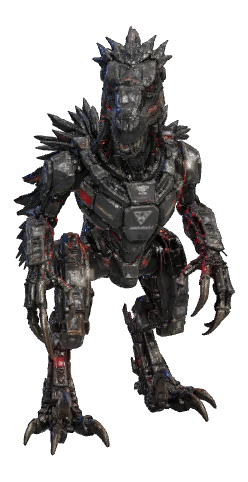
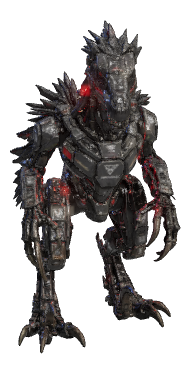
Konga + Tritone join the roster, a 20% shorter Saurion, pointer fixes in mech select
- KONGA and TRITONE lose `hidden: true` — they are playable now (AEGIS and
  NOVA stay hidden). Neither had a poster, which silently means mech select
  builds a live model on every keypress, so both were shot into posters.json.
- SAURION is 20% shorter: `heightScale: 0.8` for the pinned GLB and
  `body.scale` 1.12 -> 0.896 for the procedural body + derived dims. Measured
  0.800x on ankleprobe with the depth/height ratios unchanged; poster re-shot.
- Mech select: a second click on your locked robot UNLOCKS it; the bottom
  cards now behave like the LB/RB slot ring under the mouse (first click
  visits, further clicks cycle, your own card is home); a click on empty
  screen clears the focus; and the SELECT glyph beside "use pointer" is
  centred on the text instead of hanging a radius below it.

Claude-Session: https://claude.ai/code/session_01GbToFE42ANLKjEUbRpdHJB

Changed region(s): [[0.0524, 0.0294, 0.9424, 0.9412]]

diff --git a/src/ui/menus.js b/src/ui/menus.js
@@ -255,10 +255,20 @@ export class MechSelectScreen {
       });
       c.addEventListener('click', () => {
         const pk = this.mousePicker;
-        if (!pk || pk.locked) return;
+        if (!pk) return;
+        // the grid is the pointer's own business: clicking a robot brings a
+        // mouse user home from whatever slot card they were visiting
+        this.clearMouseSel(pk);
+        // A CLICK IS A TOGGLE. Clicking the robot you are standing on locks
+        // it in, and clicking that same robot again lets it go — the mouse's
+        // answer to B, since a locked mouse user otherwise has nothing to
+        // click that undoes the lock.
+        if (pk.locked) { if (pk.cursor === i) this.unlock(pk); return; }
         if (this.touch) {
           if (pk.cursor !== i) { pk.cursor = i; this.audio?.play('uiMove'); this.refresh(); }
-        } else if (pk.cursor === i) this.lockIn(pk);
+          return;
+        }
+        if (pk.cursor === i) this.lockIn(pk);
       });
       this.grid.appendChild(c);
       return c;
@@ -296,6 +306,18 @@ export class MechSelectScreen {
 
     this.el.appendChild(el('div', 'hint-bar', t('select.hint.html')));
     root.appendChild(this.el);
+
+    // CLICKING NOTHING DESELECTS. A pointer-placed slot focus is sticky —
+    // it re-aims ↑↓ at somebody else's card — so there has to be somewhere
+    // to put it down: the 3D stage, the heading, the bare backdrop. Anything
+    // that IS a control handles its own click and is exempt.
+    this.onStrayClick = (e) => {
+      if (this.finished) return;
+      if (e.target?.closest?.('.roster-cell, .player-card, .hot-btn, .touch-navbar, .ready-banner')) return;
+      this.clearMouseSel();
+    };
+    // capture: the canvas swallows pointer events on its own way through
+    window.addEventListener('click', this.onStrayClick, true);
 
     if (this.touch) {
       const bar = el('div', 'touch-navbar');
@@ -371,13 +393,39 @@ export class MechSelectScreen {
     // mouse does that the slot ring doesn't
     const arrow = e.target.closest?.('.pc-diff');
     if (arrow && s.kind === 'ai') { this.cycleAiDiff(i, +arrow.dataset.dir); return; }
-    // your own card = leave (mouse users; pickers otherwise use B)
-    if (i === this.mousePicker?.slotIdx) { this.removeSlot(i); return; }
+    const pk = this.mousePicker;
+    // your own card is HOME on the slot ring: while you are visiting another
+    // slot it brings you back, and only a click with nothing visited leaves
+    // the match (mouse users; pickers otherwise use B)
+    if (pk && i === pk.slotIdx) {
+      if (pk.sel != null) this.clearMouseSel(pk); else this.removeSlot(i);
+      return;
+    }
     // somebody else's pad/touch seat is theirs alone — same slots the
     // controller selector refuses to sit on
     if (s.kind === 'human' && s.device !== 'kb1' && s.device !== 'kb2') return;
-    // every other card walks the same ring a controller walks with ↑↓
+    // A CLICK VISITS A SLOT, exactly as LB/RB do: the first click puts your
+    // focus on the card (framed in your colour, and ↑↓ now drive it), and
+    // clicking the card you are already on walks its options — so the mouse
+    // and the bumpers reach the same state rather than each having their own.
+    if (pk && pk.sel !== i) {
+      pk.sel = i;
+      this.audio?.play('uiMove');
+      this.refresh();
+      return;
+    }
+    // no mouse picker to hold the focus (everyone is on a pad): a click is
+    // still the plain step through the ring it always was
     this.cycleMouse(i, 1);
+  }
+
+  // drop a pointer-placed slot focus — a click on the card you are visiting,
+  // a click on the grid, or a click on the bare screen behind the UI
+  clearMouseSel(pk = this.mousePicker) {
+    if (!pk || pk.sel == null) return;
+    pk.sel = null;
+    this.audio?.play('uiBack');
+    this.refresh();
   }
 
   // the ring a CLICK walks: the controller's stops minus the CPU difficulty
@@ -658,6 +706,17 @@ export class MechSelectScreen {
     if (this.pickers.every((p) => p.locked) && this.activeCount() >= 2) this.armReady();
   }
 
+  // let a locked pick go and carry on choosing (B on a pad, a second click
+  // on your own robot with the mouse)
+  unlock(pk) {
+    if (!pk.locked) return;
+    pk.locked = false;
+    this.picks[pk.slotIdx] = null;
+    this.disarmReady();
+    this.audio?.play('uiBack');
+    this.refresh();
+  }
+
   armReady() {
     if (this.ready) return;
     this.ready = true;
@@ -792,13 +851,7 @@ export class MechSelectScreen {
           this.finish();
           return;
         }
-        if (back) { // unlock and keep picking
-          pk.locked = false;
-          this.picks[pk.slotIdx] = null;
-          this.disarmReady();
-          this.audio?.play('uiBack');
-          this.refresh();
-        }
+        if (back) this.unlock(pk); // unlock and keep picking
       }
     }
 
@@ -807,6 +860,7 @@ export class MechSelectScreen {
   }
   destroy() {
     this.hotButtons.forEach((b) => frameHotButton(b, null));
+    window.removeEventListener('click', this.onStrayClick, true);
     this.el.remove();
   }
 }

diff --git a/src/mechs/roster.js b/src/mechs/roster.js
@@ -487,7 +487,11 @@ export const ROSTER = [
       primary: { base: 0x484a54, base2: 0x383a42, metal: 0x8a8f98, wear: 0.5, grime: 0.4, panelDepth: 4, roughPaint: 0.34, metalPaint: 0.62, normalStrength: 1.25 },
       accent: { base: 0x24262c, base2: 0x1a1c22, metal: 0x6a6e76, wear: 0.5, grime: 0.4, panelDepth: 3, roughPaint: 0.36, metalPaint: 0.58, normalStrength: 1.15 },
     },
-    body: { scale: 1.12, torsoW: 0.95, torsoH: 0.9, headSize: 1.0, armLen: 1.0, legLen: 1.15, hipW: 0.95, bulk: 0.95 },
+    // 20% shorter than he was built (owner call). The GLB is pinned by
+    // `modelScale`, so the manifest carries the matching `heightScale: 0.8`
+    // — this number only sizes the PROCEDURAL body and the dims everything
+    // derived from it (anchors, muzzle units, canonical height) reads.
+    body: { scale: 0.896, torsoW: 0.95, torsoH: 0.9, headSize: 1.0, armLen: 1.0, legLen: 1.15, hipW: 0.95, bulk: 0.95 },
     // velociraptor stance (the Jurassic Park read): spine pitched forward
     // over deeply-bent digitigrade legs SET APART and staggered — one leg
     // leading, coiled to spring — shoulders DROPPED with the forearms
@@ -702,7 +706,7 @@ export const ROSTER = [
     // hits with; the ordnance is bolted on TOP of an animal that was already
     // dangerous. So: enormous melee numbers, a slow committed heavy, and a
     // ranged option that exists mainly to make you walk into the fists.
-    id: 'konga', name: 'KONGA', title: 'The Silverback Siege', icon: '🦍', seed: 211, hidden: true,
+    id: 'konga', name: 'KONGA', title: 'The Silverback Siege', icon: '🦍', seed: 211,
     blurb: 'placeholder — see src/core/text.js',
     quotes: { win: '', intro: '' },
     colors: { primary: 0x33302e, accent: 0xa8532c, glow: 0xffa432, stripes: false },
@@ -795,7 +799,7 @@ export const ROSTER = [
     // cannot jump, so everything is built around the one thing he does better
     // than anyone: pick a line and arrive at the end of it. The cannons are
     // what he does while he waits to be pointed at something.
-    id: 'tritone', name: 'TRITONE', title: 'The Walking Siege', icon: '🦕', seed: 223, hidden: true,
+    id: 'tritone', name: 'TRITONE', title: 'The Walking Siege', icon: '🦕', seed: 223,
     blurb: 'placeholder — see src/core/text.js',
     quotes: { win: '', intro: '' },
     colors: { primary: 0x62684a, accent: 0xa8532c, glow: 0xff8a24, stripes: false },

diff --git a/src/style.css b/src/style.css
@@ -762,7 +762,12 @@ body.touch-mode .screen > .touch-navbtn { position: fixed; z-index: 25; }
 .xb-btn {
   display: inline-flex; flex-direction: column; justify-content: center; align-items: center;
   gap: 2px; width: 19px; height: 19px; border-radius: 50%;
-  background: #cdeeff; vertical-align: -4px; margin: 0 4px;
+  /* an inline-FLEX box takes its baseline from its first flex item, and the
+     first bar of the SELECT glyph sits a third of the way down the circle —
+     so baseline alignment (and the -4px nudge that used to ride on top of
+     it) hung the badge a whole radius below the line of text. `middle`
+     ignores the phantom baseline and centres it on the text instead. */
+  background: #cdeeff; vertical-align: middle; margin: 0 4px;
 }
 .xb-btn i { display: block; width: 10px; height: 1.5px; border-radius: 1px; background: #0b131f; }
 

diff --git a/TASKS.md b/TASKS.md
@@ -6302,3 +6302,50 @@ NOT DONE: the mid pair's feet still dip ~2% of body height below the floor at
 the bottom of the stance and the front pair's still float ~3% above it. That is
 the rig placing the right-hand legs lower than the left, not the gait — one
 `splay` cannot raise one pair and lower the other.
+
+## KONGA + TRITONE JOIN THE ROSTER, a shorter SAURION, and the pointer in mech select (user request, 2026-08-02)
+
+Both work-in-progress apes are ready enough to fight, so `hidden: true` came off
+KONGA and TRITONE — that one flag is the whole gate, since every workbench
+already saw the full ROSTER and only `playableRoster()`/`isPlayable()` filter it.
+AEGIS and NOVA stay hidden.
+
+What the flag does NOT bring with it is the POSTER. Neither had one, and a mech
+with no entry in `posters.json` quietly falls back to building a real model on
+every keypress in mech select — the exact cost the posters exist to avoid, and
+invisible because it still looks right. `node tools/posters.mjs konga tritone`
+merged them in (it MERGES on a named run; a bare run would have re-shot the lot).
+Icons needed nothing: both already had hand-made badges on disk AND in `BADGES`,
+so `tools/iconcheck.mjs` was green before and after.
+
+SAURION IS 20% SHORTER (owner call), which is two numbers because he is two
+bodies. The GLB's height is PINNED by `modelScale`, so the artist knob is
+`heightScale: 0.8` in the manifest; `body.scale` 1.12 -> 0.896 shrinks the
+procedural build and everything derived from the dims (anchors, muzzle units,
+the canonical height). Measured with `tools/ankleprobe.mjs`: ankle 0.297 ->
+0.237 and foot depth 0.305 -> 0.244, both exactly 0.800, with `depth%h`
+unchanged at 4.3/3.2% — a uniform shrink, not a squash. Poster re-shot.
+
+MECH SELECT LEARNS THE POINTER PROPERLY. Three things, all in the one screen:
+
+- A CLICK ON A ROBOT IS A TOGGLE. Clicking the cell you are standing on locks
+  it in as before; clicking that same cell again LETS IT GO. A locked mouse
+  user previously had no click that undid the lock at all — B/Esc only. The
+  unlock path is now one `unlock(pk)` shared with the pad's B.
+- THE BOTTOM CARDS ARE THE LB/RB RING. A click no longer cycles a slot
+  outright: the first click VISITS it (`pk.sel = i` — the same state the
+  bumpers set, so the card frames in your colour and ↑↓ drive it), and a click
+  on the card you are already visiting walks its options. Your own card is
+  HOME: it brings you back while you are visiting, and only leaves the match
+  on a click with nothing visited. With no mouse picker at all (everyone on
+  pads) a click is still the plain step through the ring it always was.
+- CLICKING NOTHING DESELECTS. A sticky focus that re-aims ↑↓ at somebody
+  else's card needs somewhere to be put down, so a capture-phase window click
+  outside `.roster-cell` / `.player-card` / `.hot-btn` / the touch bar clears
+  it — the 3D stage, the heading, the bare backdrop all work.
+
+And the SELECT-button glyph beside "use pointer" sat a whole radius below the
+line of text. `.xb-btn` is an inline-FLEX box, so its baseline is its first flex
+item's — the top bar of the three-line glyph, a third of the way down the circle
+— and the `vertical-align: -4px` nudge was pushing an already-sunken box further
+down. `vertical-align: middle` ignores the phantom baseline and centres it.

diff --git a/CLAUDE.md b/CLAUDE.md
@@ -1063,7 +1063,7 @@ audio). Progress history: `TASKS.md`.
   keeps the hot core hot. 0 = untouched, so every untinted particle in the game
   is bit-identical.
 - Work-in-progress mechs: a roster def flagged `hidden: true` (currently
-  AEGIS, NOVA, KONGA + TRITONE) is kept out of the GAME's roster — mech select, RANDOM
+  AEGIS + NOVA) is kept out of the GAME's roster — mech select, RANDOM
   picks, CPU picks, title line-up — until SETTINGS → SHOW ALL ROBOTS is
   turned on (persisted in `rw.showAllRobots`). Every workbench (`?showcase`,
   `?rigedit`, pose/skin tools, `?battle=...`, the level editor) always sees
